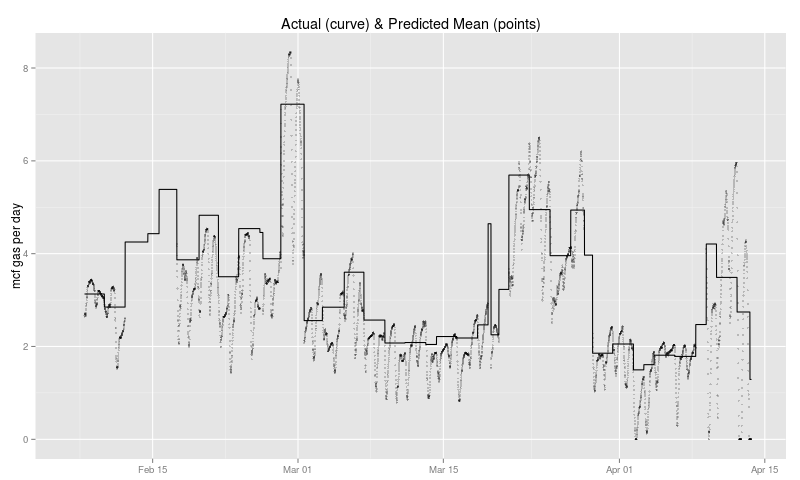
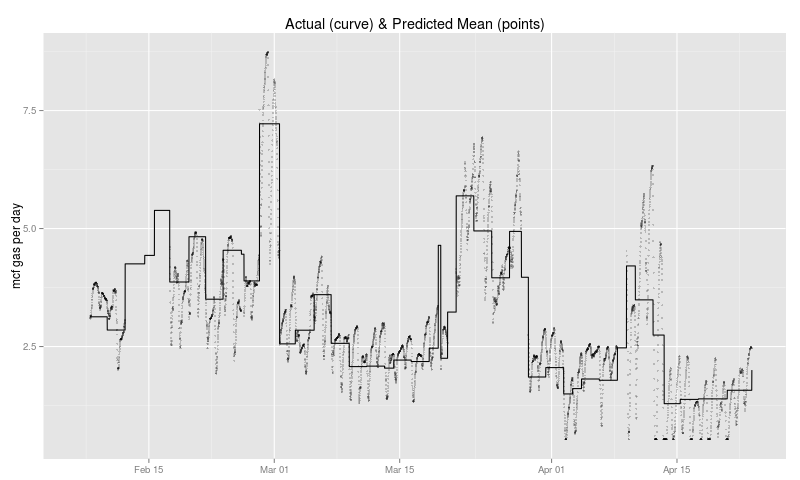
auto commit

diff --git a/index.html b/index.html
@@ -4,21 +4,14 @@
 <html xmlns="http://www.w3.org/1999/xhtml" lang="en" xml:lang="en">
 <head>
 <title></title>
-<!-- 2015-04-15 Wed 09:05 -->
+<!-- 2015-04-30 Thu 11:03 -->
 <meta  http-equiv="Content-Type" content="text/html;charset=utf-8" />
 <meta  name="generator" content="Org-mode" />
-<meta  name="viewport" content="width=device-width, initial-scale=1" />
 <style type="text/css">
  <!--/*--><![CDATA[/*><!--*/
-  .title  { text-align: center;
-             margin-bottom: .2em; }
-  .subtitle { text-align: center;
-              font-size: medium;
-              font-weight: bold;
-              margin-top:0; }
+  .title  { text-align: center; }
   .todo   { font-family: monospace; color: red; }
-  .done   { font-family: monospace; color: green; }
-  .priority { font-family: monospace; color: orange; }
+  .done   { color: green; }
   .tag    { background-color: #eee; font-family: monospace;
             padding: 2px; font-size: 80%; font-weight: normal; }
   .timestamp { color: #bebebe; }
@@ -140,44 +133,66 @@ for the JavaScript code in this tag.
  }
 /*]]>*///-->
 </script>
-<script type="text/x-mathjax-config">
+<script type="text/javascript" src="http://orgmode.org/mathjax/MathJax.js"></script>
+<script type="text/javascript">
+<!--/*--><![CDATA[/*><!--*/
     MathJax.Hub.Config({
+        // Only one of the two following lines, depending on user settings
+        // First allows browser-native MathML display, second forces HTML/CSS
+        //  config: ["MMLorHTML.js"], jax: ["input/TeX"],
+            jax: ["input/TeX", "output/HTML-CSS"],
+        extensions: ["tex2jax.js","TeX/AMSmath.js","TeX/AMSsymbols.js",
+                     "TeX/noUndefined.js"],
+        tex2jax: {
+            inlineMath: [ ["\\(","\\)"] ],
+            displayMath: [ ['$$','$$'], ["\\[","\\]"], ["\\begin{displaymath}","\\end{displaymath}"] ],
+            skipTags: ["script","noscript","style","textarea","pre","code"],
+            ignoreClass: "tex2jax_ignore",
+            processEscapes: false,
+            processEnvironments: true,
+            preview: "TeX"
+        },
+        showProcessingMessages: true,
         displayAlign: "center",
-        displayIndent: "0em",
+        displayIndent: "2em",
 
-        "HTML-CSS": { scale: 100,
-                        linebreaks: { automatic: "false" },
-                        webFont: "TeX"
-                       },
-        SVG: {scale: 100,
-              linebreaks: { automatic: "false" },
-              font: "TeX"},
-        NativeMML: {scale: 100},
-        TeX: { equationNumbers: {autoNumber: "AMS"},
-               MultLineWidth: "85%",
-               TagSide: "right",
-               TagIndent: ".8em"
+        "HTML-CSS": {
+             scale: 100,
+             availableFonts: ["STIX","TeX"],
+             preferredFont: "TeX",
+             webFont: "TeX",
+             imageFont: "TeX",
+             showMathMenu: true,
+        },
+        MMLorHTML: {
+             prefer: {
+                 MSIE:    "MML",
+                 Firefox: "MML",
+                 Opera:   "HTML",
+                 other:   "HTML"
              }
-});
+        }
+    });
+/*]]>*///-->
 </script>
-<script type="text/javascript"
-        src="http://cdn.mathjax.org/mathjax/latest/MathJax.js?config=TeX-AMS_HTML"></script>
 </head>
 <body>
 <div id="content">
 <h1 class="title"></h1>
 
-<div id="outline-container-unnumbered-1" class="outline-2">
-<h2 id="unnumbered-1">Chapin Mill Energy</h2>
-<div class="outline-text-2" id="text-unnumbered-1">
+<div id="outline-container-sec-1" class="outline-2">
+<h2 id="sec-1">Chapin Mill Energy</h2>
+<div class="outline-text-2" id="text-1">
 <p>
 The plot below describes outdoor air temperatures and the rate of
 retreat center energy consumption for the past two months. These
 data come from
 </p>
 <ul class="org-ul">
-<li>the Ensemble HVAC system, and</li>
-<li>the gas and electric meters.</li>
+<li>the Ensemble HVAC system, and
+</li>
+<li>the gas and electric meters.
+</li>
 </ul>
 
 <p>
@@ -234,34 +249,38 @@ center of the cloud of points as temperature changes.
 </div>
 </div>
 
-<div id="outline-container-unnumbered-2" class="outline-3">
-<h3 id="unnumbered-2">Natural gas</h3>
-<div class="outline-text-3" id="text-unnumbered-2">
+<div id="outline-container-sec-1-1" class="outline-3">
+<h3 id="sec-1-1">Natural gas</h3>
+<div class="outline-text-3" id="text-1-1">
 <p>
 For a given level of occupancy of the retreat center it would be
 natural to consider gas consumption as consisting of two parts:
 </p>
 <ul class="org-ul">
 <li>a base rate that doesn't change significantly from day to day,
-and</li>
+and
+</li>
 <li>an additional rate that scales with the outdoor
-temperature. (The colder it gets the greater this part.)</li>
+temperature. (The colder it gets the greater this part.)
+</li>
 </ul>
+
 <p>
-However the analysis failed to find significant values for any base
-rates. This is almost certainly due to the limited range of outdoor
-air temperatures we have experienced in the relatively short time
-the data cover. You can't expect the models to extrapolate reliably
-to warm days where the furnaces no longer need to keep winter at
-bay. The requirement to maintain the heat dominates the consumption
-to the point where everything else is drowned out.
+Although I have included the base rate estimate in the analysis
+below it is only marginally significant. This is almost certainly
+due to the limited range of outdoor air temperatures we have
+experienced in the relatively short time the data cover. You can't
+expect the models to extrapolate reliably to warm days where the
+furnaces no longer need to keep winter at bay. The requirement to
+maintain the heat dominates the consumption to the point where
+everything else is drowned out.
 </p>
 
 <p>
-But the data do support estimates of scaling factors that apply to
-the outdoor temperatures. That is, the scaling factors relate gas
-consumption in ccf (100s of cubic feet) per day to degrees
-Fahrenheit. 95% confidence intervals are
+But the data do support robust estimates of scaling factors that
+apply to the outdoor temperatures. That is, the scaling factors
+relate gas consumption in ccf (100s of cubic feet) per day to
+degrees Fahrenheit. 95% confidence intervals are
 </p>
 
 <table border="2" cellpadding="3">
@@ -283,20 +302,20 @@ Fahrenheit. 95% confidence intervals are
 
 <tr>
 <td class="left">IdleScale</td>
-<td class="right">0.49</td>
-<td class="right">0.82</td>
+<td class="right">0.50</td>
+<td class="right">0.76</td>
 </tr>
 
 <tr>
 <td class="left">SesshinScale</td>
-<td class="right">1.11</td>
-<td class="right">1.50</td>
+<td class="right">1.13</td>
+<td class="right">1.44</td>
 </tr>
 
 <tr>
 <td class="left">SimtScale</td>
-<td class="right">1.42</td>
-<td class="right">2.53</td>
+<td class="right">1.45</td>
+<td class="right">2.39</td>
 </tr>
 </tbody>
 </table>
@@ -304,11 +323,23 @@ Fahrenheit. 95% confidence intervals are
 <p>
 Roughly speaking these imply that the incremental consumption
 associated with a 1 degree drop in outside air temperature is
-normally <code>0.65</code> ccf per day. During sesshin
-this increases by <code>100</code> percent to
-<code>1.31</code> ccf per day and during a SIMT retreat it
-increases by <code>202</code> percent to 
-<code>1.97</code> ccf per day.
+normally <code>0.63</code> ccf per day. During sesshin
+this increases by <code>103</code> percent to
+<code>1.28</code> ccf per day and during a SIMT retreat it
+increases by <code>204</code> percent to 
+<code>1.92</code> ccf per day.
+</p>
+
+<p>
+Historically the price per ccf of natural gas for Chapin Mill is
+<code>0.55</code> dollars. This implies that if the average
+outside air temperature is say 25 degrees Fahrenheit then the
+amount spent on gas per day during idle, sesshin and SIMT periods
+would be around
+<code>13.79</code>,
+<code>28.04</code>, and
+<code>41.87</code>
+dollars respectively.
 </p>
 
 <p>
@@ -328,9 +359,9 @@ either idle, sesshin, or SIMT.)
 </div>
 </div>
 
-<div id="outline-container-unnumbered-3" class="outline-3">
-<h3 id="unnumbered-3">Electricity</h3>
-<div class="outline-text-3" id="text-unnumbered-3">
+<div id="outline-container-sec-1-2" class="outline-3">
+<h3 id="sec-1-2">Electricity</h3>
+<div class="outline-text-3" id="text-1-2">
 <p>
 There was no discernable relationship between electricity usage and
 outside air temperature. The data only established separate
@@ -357,39 +388,50 @@ occupied periods.
 
 <tr>
 <td class="left">Idle</td>
-<td class="right">106.11</td>
-<td class="right">121.26</td>
+<td class="right">105.46</td>
+<td class="right">118.53</td>
 </tr>
 
 <tr>
 <td class="left">Sesshin</td>
-<td class="right">278.59</td>
-<td class="right">311.80</td>
+<td class="right">279.46</td>
+<td class="right">310.93</td>
 </tr>
 
 <tr>
 <td class="left">SIMT</td>
-<td class="right">208.88</td>
-<td class="right">251.74</td>
+<td class="right">210.00</td>
+<td class="right">250.63</td>
 </tr>
 </tbody>
 </table>
 
 <p>
-On average the retreat center consumes <code>114</code> kWh per
+On average the retreat center consumes <code>112</code> kWh per
 day outside sesshin.  During sesshin this increases by
-<code>160</code> percent to <code>295</code> kWh per day
+<code>164</code> percent to <code>295</code> kWh per day
 and during a SIMT retreat the corresponding increase is
-<code>103</code> percent to <code>230</code> kWh
+<code>106</code> percent to <code>230</code> kWh
 per day.
+</p>
+
+<p>
+The average price of electricity for Chapin Mill has been
+<code>0.07</code> dollars per killowatt hour. Therefore the
+amound spent on electricity per day during idle, sesshin and SIMT
+periods is about
+<code>8.23</code>,
+<code>21.69</code>, and
+<code>16.92</code>
+dollars respectively.
 </p>
 </div>
 </div>
 </div>
 
-<div id="outline-container-unnumbered-4" class="outline-2">
-<h2 id="unnumbered-4">Details</h2>
-<div class="outline-text-2" id="text-unnumbered-4">
+<div id="outline-container-sec-2" class="outline-2">
+<h2 id="sec-2">Details</h2>
+<div class="outline-text-2" id="text-2">
 <p>
 The natural gas model is
 \[
@@ -462,33 +504,33 @@ follows:
 
 <tr>
 <td class="left">&alpha;<sub>0</sub></td>
-<td class="right">4.49</td>
-<td class="right">3.05</td>
-<td class="right">1.47</td>
-<td class="right">0.15</td>
+<td class="right">5.34</td>
+<td class="right">2.24</td>
+<td class="right">2.38</td>
+<td class="right">0.02</td>
 </tr>
 
 <tr>
 <td class="left">&alpha;<sub>1</sub></td>
-<td class="right">0.65</td>
-<td class="right">0.08</td>
-<td class="right">7.72</td>
+<td class="right">0.63</td>
+<td class="right">0.07</td>
+<td class="right">9.50</td>
 <td class="right">0.00</td>
 </tr>
 
 <tr>
 <td class="left">&alpha;<sub>2</sub></td>
-<td class="right">1.31</td>
-<td class="right">0.10</td>
-<td class="right">13.24</td>
+<td class="right">1.28</td>
+<td class="right">0.08</td>
+<td class="right">15.93</td>
 <td class="right">0.00</td>
 </tr>
 
 <tr>
 <td class="left">&alpha;<sub>3</sub></td>
-<td class="right">1.97</td>
-<td class="right">0.28</td>
-<td class="right">6.98</td>
+<td class="right">1.92</td>
+<td class="right">0.24</td>
+<td class="right">8.01</td>
 <td class="right">0.00</td>
 </tr>
 </tbody>
@@ -535,25 +577,25 @@ where \(y\) is electricity consumption in kWh per day and the
 
 <tr>
 <td class="left">&beta;<sub>1</sub></td>
-<td class="right">113.69</td>
-<td class="right">3.87</td>
-<td class="right">29.41</td>
+<td class="right">111.99</td>
+<td class="right">3.33</td>
+<td class="right">33.60</td>
 <td class="right">0.00</td>
 </tr>
 
 <tr>
 <td class="left">&beta;<sub>2</sub></td>
 <td class="right">295.20</td>
-<td class="right">8.47</td>
-<td class="right">34.85</td>
+<td class="right">8.03</td>
+<td class="right">36.77</td>
 <td class="right">0.00</td>
 </tr>
 
 <tr>
 <td class="left">&beta;<sub>3</sub></td>
 <td class="right">230.31</td>
-<td class="right">10.93</td>
-<td class="right">21.06</td>
+<td class="right">10.36</td>
+<td class="right">22.22</td>
 <td class="right">0.00</td>
 </tr>
 </tbody>
@@ -563,7 +605,8 @@ where \(y\) is electricity consumption in kWh per day and the
 
 <p>
 <div id="postamble" class="status">
-<p class="date">Created: 2015-04-15 Wed 09:05</p>
+<p class="date">Created: 2015-04-30 Thu 11:03</p>
+<p class="creator"><a href="http://www.gnu.org/software/emacs/">Emacs</a> 24.5.50.1 (<a href="http://orgmode.org">Org</a> mode 8.2.10)</p>
 <p class="validation"><a href="http://validator.w3.org/check?uri=referer">Validate</a></p>
 </div>
 </body>
